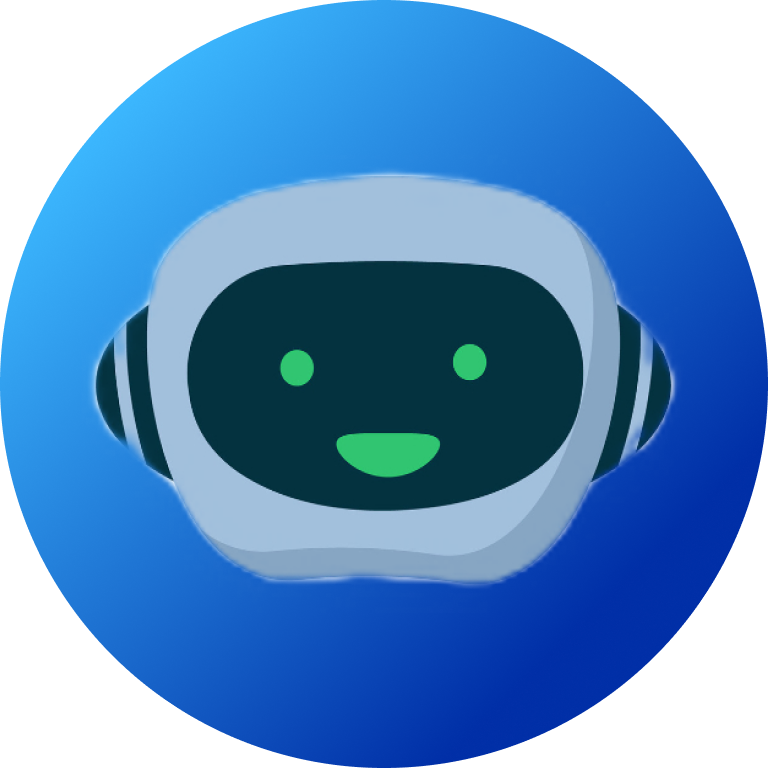
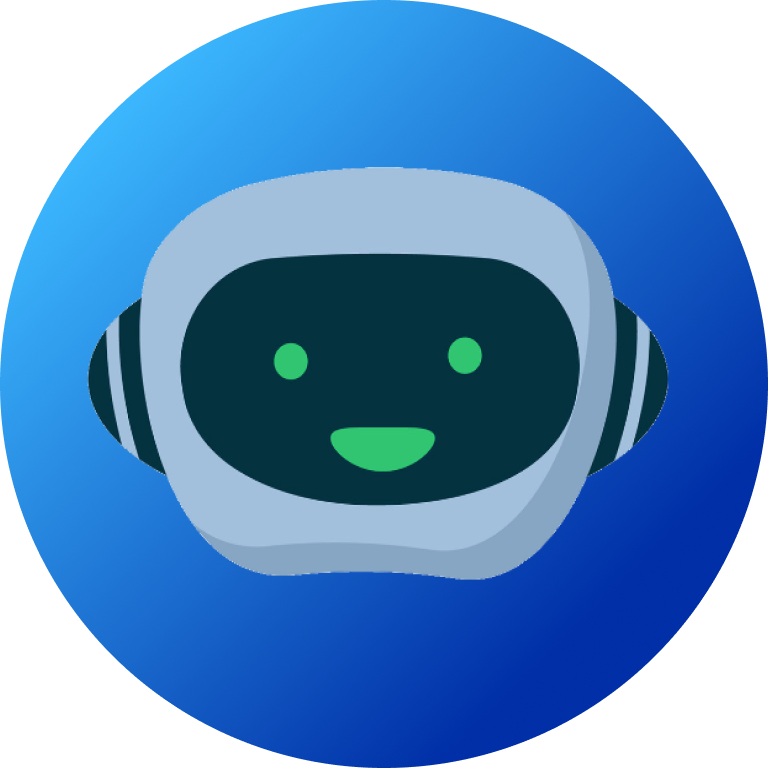
added mascot

diff --git a/src/pages/Consultation.js b/src/pages/Consultation.js
@@ -2,6 +2,7 @@ import React from "react";
 import Banner from "../components/Banner";
 import { Box, Button, Typography } from "@mui/material";
 import { useNavigate } from "react-router-dom";
+import EastIcon from "@mui/icons-material/East";
 
 const Consultation = () => {
     const navigate = useNavigate();
@@ -35,53 +36,50 @@ const Consultation = () => {
                 <Box
                     sx={{
                         display: "flex",
-                        flexDirection: "column",
+                        flexDirection: "row",
                         justifyContent: "center",
                         alignItems: "center",
-                        gap: "20px",
+                        gap: "30px",
                         border: "2px solid #F219A1",
                         borderRadius: "10px",
+                        width: "65%",
                         padding: "20px",
                         background: "rgba(255, 255, 255, 0.1)",
                         backdropFilter: "blur(5px)",
                     }}
                 >
-                    <Typography variant="h4" sx={{ color: "#F219A1" }}>
-                        Ready to get personalized advice?
-                    </Typography>
-                    <Typography variant="body1" sx={{ textAlign: "center" }}>
-                        Our AI assistant is here to help you with your career
-                        decisions. Chat with us now!
-                    </Typography>
-                    <Button
-                        variant="contained"
-                        onClick={() => navigate("/consultation/chat")}
+                    <img src="/images/Sage.png" alt="sage" width="250" />
+                    <Box
                         sx={{
-                            textTransform: "none",
-                            borderRadius: "5px",
-                            padding: "10px 30px",
-                            fontSize: "3vmin",
-                            background:
-                                "linear-gradient(108.51deg, #F219A1 53.69%, #AD0CF8 100.22%, #FE007E 100.23%)",
+                            display: "flex",
+                            flexDirection: "column",
+                            justifyContent: "flex-start",
+                            alignItems: "flex-start",
+                            gap: "20px",
                         }}
                     >
-                        Chat Now
-                    </Button>
+                        <Typography variant="p" component="p" fontSize="4vmin">
+                            Need personalized advice? Our AI assistant,{" "}
+                            <strong>The Career Sage</strong>, is here to help
+                            you with your career decisions. Chat with us now!
+                        </Typography>
+                        <Button
+                            variant="contained"
+                            onClick={() => navigate("/consultation/chat")}
+                            sx={{
+                                textTransform: "none",
+                                borderRadius: "5px",
+                                padding: "10px 30px",
+                                fontSize: "3vmin",
+                                background:
+                                    "linear-gradient(108.51deg, #F219A1 53.69%, #AD0CF8 100.22%, #FE007E 100.23%)",
+                            }}
+                            endIcon={<EastIcon sx={{ fontSize: 50 }} />}
+                        >
+                            Chat with Him Now
+                        </Button>
+                    </Box>
                 </Box>
-                {/* <Button
-                    variant="contained"
-                    onClick={() => navigate("/consultation/chat")}
-                    sx={{
-                        textTransform: "none",
-                        borderRadius: "5px",
-                        padding: "0.5% 3%",
-                        fontSize: "3vmin",
-                        background:
-                            "linear-gradient(108.51deg, #F219A1 53.69%, #AD0CF8 100.22%, #FE007E 100.23%)",
-                    }}
-                >
-                    Chat
-                </Button> */}
             </Box>
         </>
     );

diff --git a/src/components/CustomLoader.js b/src/components/CustomLoader.js
@@ -1,0 +1,61 @@
+import React, { useEffect, useState } from "react";
+import { Backdrop, CircularProgress, Typography } from "@mui/material";
+
+const CustomLoader = ({ open }) => {
+    const texts = [
+        "Please wait, our is Working it's Magic!",
+        "Our AI is working, please be patient",
+        "Still loading, almost there!",
+        "Hol' up, our AI is cookin'!",
+    ];
+
+    const [text, setText] = useState("Please wait, our is Working it's Magic!");
+
+    useEffect(() => {
+        setTimeout(() => {
+            setText(texts[Math.floor(Math.random() * 4)]);
+        }, 2500);
+    }, []);
+
+    return (
+        <Backdrop
+            open={open}
+            sx={{
+                display: "flex",
+                flexDirection: "column",
+                justifyContent: "center",
+                alignItems: "center",
+                gap: " 20px",
+            }}
+        >
+            <CircularProgress
+                color="secondary"
+                size={130}
+                thickness={5}
+                sx={{ position: "relative" }}
+            />
+            <img
+                src=" /images/sageHead.png"
+                alt="sageHead"
+                width="80"
+                style={{
+                    position: "absolute",
+                    top: "41%",
+                    // left: "50%",
+                    // right: "50%",
+                    bottom: "50%",
+                }}
+            />
+            <Typography
+                variant="body1"
+                component="p"
+                fontSize="4vmin"
+                color="#d069d3"
+            >
+                {text}
+            </Typography>
+        </Backdrop>
+    );
+};
+
+export default CustomLoader;

diff --git a/src/components/RolePredictionComponents/UploadCV.js b/src/components/RolePredictionComponents/UploadCV.js
@@ -1,22 +1,17 @@
 import React, { useState, useRef, useEffect } from "react";
-import {
-    Backdrop,
-    Box,
-    Button,
-    CircularProgress,
-    Typography,
-} from "@mui/material";
+import { Box, Button, Typography } from "@mui/material";
 import CloudUploadIcon from "@mui/icons-material/CloudUpload";
 import Result from "./Result";
 import axios from "axios";
 import pdfToText from "react-pdftotext";
 import CustomModal from "../CustomModal";
+import CustomLoader from "../CustomLoader";
 
 const UploadCV = () => {
     const [parsedFile, setParsedFile] = useState("");
     const [prediction, setPrediction] = useState({});
     const [background, setBackground] = useState("rgba(0,0,0,0.0)");
-    const [open, setOpen] = useState(false);
+    const [open, setOpen] = useState(true);
     const [open2, setOpen2] = useState(false);
     const [title, setTitle] = useState("");
     const [content, setContent] = useState("");
@@ -263,9 +258,7 @@ const UploadCV = () => {
                     />
                 </>
             ) : null}
-            <Backdrop open={open}>
-                <CircularProgress color="secondary" size={120} thickness={5} />
-            </Backdrop>
+            <CustomLoader open={open} />
             <CustomModal
                 open={open2}
                 title={title}

diff --git a/src/components/HomeComponents/Services.js b/src/components/HomeComponents/Services.js
@@ -1,6 +1,7 @@
 import React from "react";
 import { Box, Typography, Button } from "@mui/material";
 import { useNavigate } from "react-router-dom";
+import EastIcon from "@mui/icons-material/East";
 
 const Services = () => {
     const navigate = useNavigate();
@@ -75,6 +76,7 @@ const Services = () => {
                         onClick={() => {
                             navigate("/consultation");
                         }}
+                        endIcon={<EastIcon sx={{ fontSize: 50 }} />}
                     >
                         Go to Consultation
                     </Button>
@@ -133,6 +135,7 @@ const Services = () => {
                         onClick={() => {
                             navigate("/role-prediction");
                         }}
+                        endIcon={<EastIcon sx={{ fontSize: 50 }} />}
                     >
                         Go to Prediction
                     </Button>
@@ -191,6 +194,7 @@ const Services = () => {
                         onClick={() => {
                             navigate("/roadmaps");
                         }}
+                        endIcon={<EastIcon sx={{ fontSize: 50 }} />}
                     >
                         Go to Roadmaps
                     </Button>

diff --git a/src/components/RoadmapComponents/RoadmapsList.js b/src/components/RoadmapComponents/RoadmapsList.js
@@ -1,12 +1,5 @@
 import React, { useEffect, useRef, useState } from "react";
-import {
-    Backdrop,
-    Box,
-    Button,
-    CircularProgress,
-    TextField,
-    Typography,
-} from "@mui/material";
+import { Box, Button, TextField, Typography } from "@mui/material";
 import Tree from "react-d3-tree";
 import axios from "axios";
 import CustomModal from "../CustomModal";
@@ -248,9 +241,7 @@ const RoadmapsList = () => {
                     </Box>
                 )}
             </Box>
-            <Backdrop open={open}>
-                <CircularProgress color="secondary" size={120} thickness={5} />
-            </Backdrop>
+            <CustomModal open={open} />
             <CustomModal
                 open={open2}
                 title={title}
